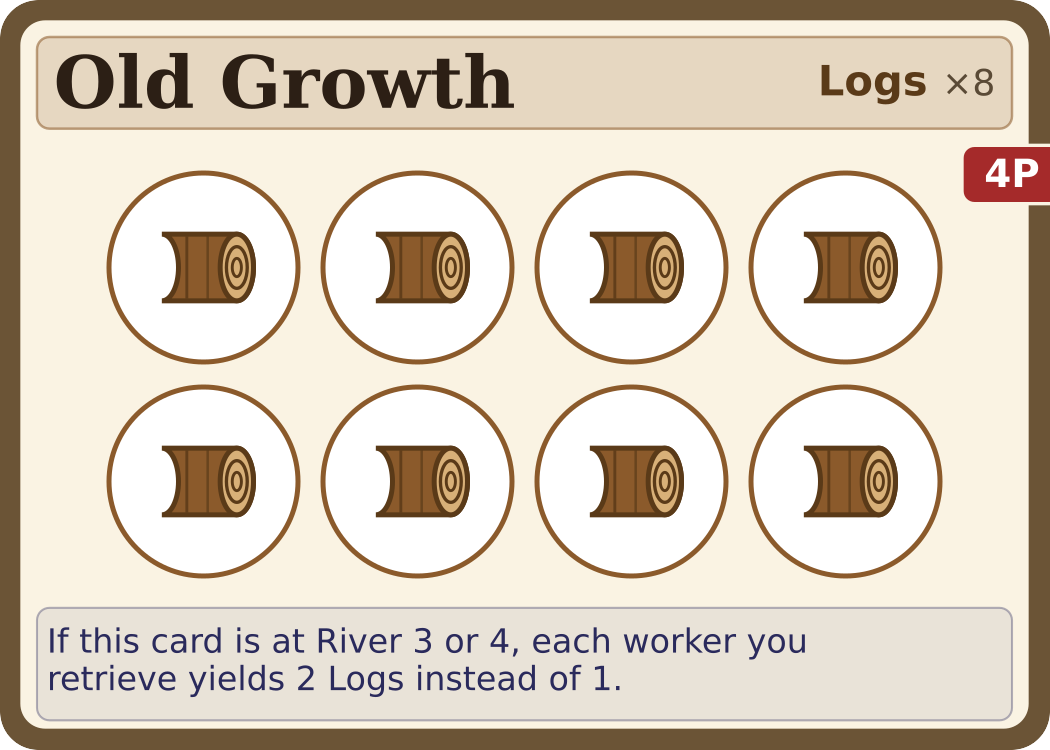
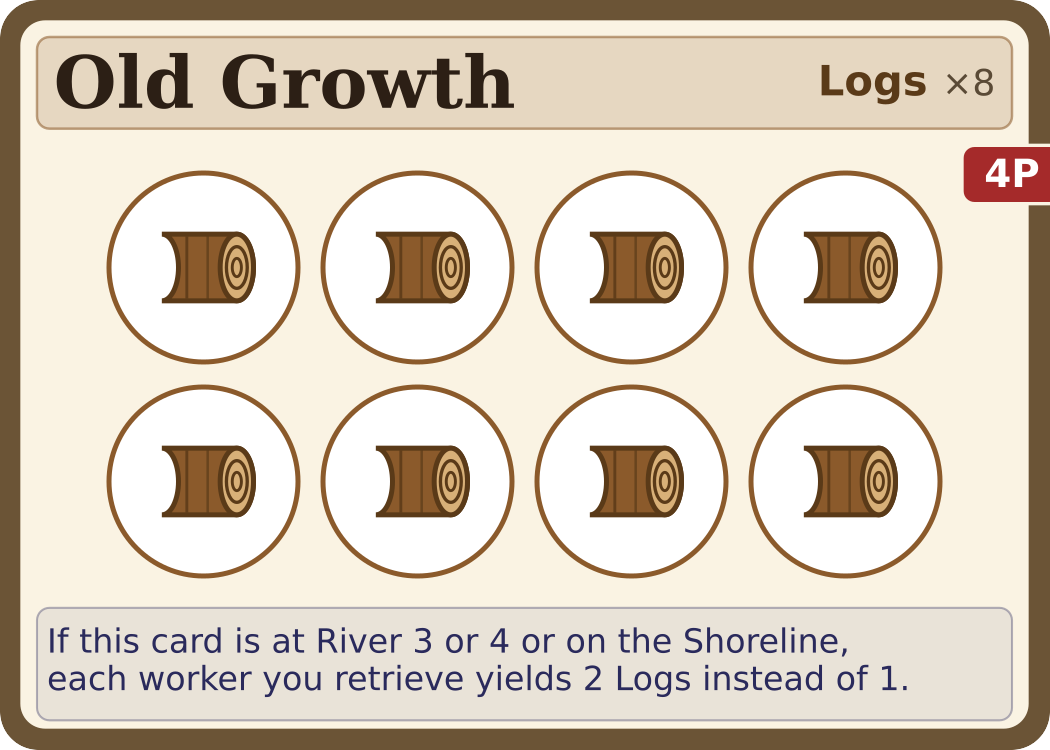
Old Growth: the ×2 now persists on the Shoreline
Fixes the trap where covering Old Growth's last icon retired it and
switched its own multiplier off — winning an icon could leave your Logs
total unchanged (seen live on BGA table 885194439). New text: "If this
card is at River 3 or 4 or on the Shoreline, each worker you retrieve
yields 2 Logs instead of 1."

No impact on end-game scoring: the bonus stays scoped to retrieval
during play; pair scoring keeps rawYield, so leftover workers at game
end count singly.

Sim (new `oldgrowth` sweep, 15k×4P; RB_OLDGROWTH_SHORE=0 restores the
old rule): the trap fired in 29.6% of 4P games and left the card's
investors at 23.0% win vs 25.0 fair; shoreline persistence restores
them to 26.0% with the rest of the field unmoved. 8-icon cost unchanged.

Applied to sim.js, web, BGA (both Game.php yield sites + Material.php;
getLeftoverWorkers deliberately untouched), card art + material sprite
sheet, release notes v0.4, design journal, and a new strategy-guide
paragraph.

Changed region(s): [[0.0305, 0.828, 0.8533, 0.92]]

diff --git a/sim.js b/sim.js
@@ -925,11 +925,21 @@ function uncoveredIcons(card) {
   return card.totalIcons - workers - card.blanks;
 }
 function workersOnCard(card, playerIdx) { return card.workers[playerIdx] || 0; }
-// Material yield multiplier per worker on a card. Old Growth yields 2x while
-// at River 3 or River 4 (slots 2 and 3); shoreline / R1 / R2 → 1x. All other
-// cards always yield 1x.
+// Material yield multiplier per worker on a card. Old Growth yields 2x at
+// River 3/4 and on the Shoreline; R1 / R2 / pre-river → 1x. All other cards
+// always yield 1x.
+// LIVE RULE as of [2026-09-19]: the ×2 also applies on the Shoreline,
+// removing the trap where covering Old Growth's last icon retires it and
+// switches its own multiplier off (seen live in BGA table 885194439; the
+// `oldgrowth` sweep showed the trap fired in ~30% of 4P games and left the
+// card's investors 2 pts under fair share). RB_OLDGROWTH_SHORE=0 restores
+// the old rule for measurement. NO impact on end-game scoring either way —
+// pair scoring passes rawYield (workers never retrieved don't double).
+let OLDGROWTH_SHORE = process.env.RB_OLDGROWTH_SHORE !== '0';
 function cardYieldMultiplier(card) {
-  if (card.effect === 'old-growth' && typeof card.slot === 'number' && card.slot >= 2) return 2;
+  if (card.effect !== 'old-growth') return 1;
+  if (typeof card.slot === 'number' && card.slot >= 2) return 2;
+  if (card.slot === 'shore' && OLDGROWTH_SHORE) return 2;
   return 1;
 }
 // wbm[m] = vanilla-card material units this player can spend on material m.
@@ -1352,6 +1362,7 @@ function newGame(numPlayers, workersPerPlayer = null) {
       peakBlanks: 0,              // max total blanks across all river/preriv cards at any point
       portageSwaps: [],           // per Portage swap: {victimIdx, cost, victimPos} (victimPos = victim timePos before any compensation)
       tributeRecalls: [],         // per Tribute Stone / Snare Set recall: {victimIdx, cardCost, comp, victimPos}
+      ogTrap: [],                 // per player caught by Old Growth retiring from R3/R4 with their workers aboard: {playerIdx, workers, slot}
     },
   };
 }
@@ -1496,6 +1507,15 @@ function moveCardToShoreline(state, card) {
     // Card exited the river — record the slot it was on (0..3).
     state.metrics.riverExitSlots.push(card.slot);
     state.riverCards = state.riverCards.filter(c => c !== card);
+  }
+  // Old Growth trap tracking: players holding workers when the card leaves a
+  // ×2 slot (River 3/4) lose the multiplier under the live rule.
+  if (card.effect === 'old-growth' && typeof card.slot === 'number' && card.slot >= 2) {
+    for (const k in card.workers) {
+      if (card.workers[k] > 0) {
+        state.metrics.ogTrap.push({ playerIdx: parseInt(k), workers: card.workers[k], slot: card.slot });
+      }
+    }
   }
   card.slot = 'shore';
   state.shorelineCards.push(card);
@@ -5005,6 +5025,88 @@ function sweepTribute(numGamesArg, numPArg, workersArg) {
   console.log(`\nElapsed: ${((Date.now() - t0) / 1000).toFixed(1)}s.\n`);
 }
 
+// Old Growth shoreline sweep: live rule (×2 dies when the card leaves River
+// 3/4, even by retiring to the Shoreline) vs RB_OLDGROWTH_SHORE (×2 persists
+// on the Shoreline). Measures the trap population — players holding workers
+// when Old Growth retires from a ×2 slot — under both rules, plus how often
+// the trap even occurs. Run with `cpulimit -l 50 -f -m --`.
+// Usage: node sim.js oldgrowth [numGames] [numP] [workers]
+function sweepOldGrowth(numGamesArg, numPArg, workersArg) {
+  const numP = parseInt(numPArg) || 3;
+  const workers = parseInt(workersArg) || defaultWorkersPerPlayer(numP);
+  const numGames = parseInt(numGamesArg) || 4000;
+  configureMaterials(6);
+  const fishLine = simFishLine(numP);
+
+  function collect(label, shore) {
+    OLDGROWTH_SHORE = shore;
+    let trapGames = 0, trapPlayers = 0, trapWorkers = 0, trapWins = 0, trapVP = 0;
+    let others = 0, otherVP = 0, otherWins = 0;
+    let gamesWithOG = 0, ogSeen = 0;
+    for (let g = 0; g < numGames; g++) {
+      const state = newGame(numP, workers);
+      egPlayOut(state, 'fish', 0, fishLine, 'd');
+      const trap = state.metrics.ogTrap;
+      const trapIdx = new Set(trap.map(t => t.playerIdx));
+      if (trap.length > 0) trapGames++;
+      const sawOG = state.riverCards.concat(state.shorelineCards, state.prerivCards.filter(Boolean))
+        .some(c => c.effect === 'old-growth');
+      if (sawOG) gamesWithOG++;
+      const scored = state.players.map(p => ({ p, vp: totalVP(p, state) }));
+      scored.sort((a, b) => b.vp - a.vp || a.p.timePos - b.p.timePos);
+      const winner = scored[0].p;
+      for (const t of trap) trapWorkers += t.workers;
+      for (const { p, vp } of scored) {
+        if (trapIdx.has(p.idx)) {
+          trapPlayers++; trapVP += vp;
+          if (p === winner) trapWins++;
+        } else {
+          others++; otherVP += vp;
+          if (p === winner) otherWins++;
+        }
+      }
+      ogSeen += trap.length;
+    }
+    return {
+      label,
+      trapGames, trapRate: trapGames / numGames,
+      trapPlayers, avgTrapWorkers: trapPlayers ? trapWorkers / trapPlayers : NaN,
+      trapWin: trapPlayers ? trapWins / trapPlayers : NaN,
+      trapVP: trapPlayers ? trapVP / trapPlayers : NaN,
+      otherWin: others ? otherWins / others : NaN,
+      otherVP: others ? otherVP / others : NaN,
+    };
+  }
+
+  const t0 = Date.now();
+  process.stderr.write('\roldgrowth: live rule ...           ');
+  const off = collect('x2 dies on Shoreline (pre-9/19)', false);
+  process.stderr.write('\roldgrowth: shoreline x2 ...        ');
+  const on = collect('x2 persists on Shoreline (live)', true);
+  OLDGROWTH_SHORE = process.env.RB_OLDGROWTH_SHORE !== '0';
+  process.stderr.write('\r' + ' '.repeat(40) + '\r');
+
+  const expWin = 100 / numP;
+  console.log(`\nRiver Bankers — Old Growth shoreline-×2 sweep  (${numP}P × ${workers} workers × ${numGames} games/condition)`);
+  console.log(`Fair-share win-rate = ${expWin.toFixed(1)}%.  "Trapped" = held workers on Old Growth when it retired from River 3/4.\n`);
+  console.log(pad('Condition', 30) + padL('trap/game', 11) + padL('avgWkrs', 9) + padL('trapWin%', 10) + padL('Δfair', 8) + padL('trapVP', 8) + padL('restWin%', 10) + padL('restVP', 8));
+  console.log('-'.repeat(30 + 11 + 9 + 10 + 8 + 10 + 8 + 8));
+  for (const r of [off, on]) {
+    const f = (x, d = 1) => isNaN(x) ? '-' : x.toFixed(d);
+    console.log(
+      pad(r.label, 30) + padL((100 * r.trapRate).toFixed(1) + '%', 11) +
+      padL(f(r.avgTrapWorkers, 2), 9) + padL(f(100 * r.trapWin), 10) +
+      padL(isNaN(r.trapWin) ? '-' : ((100 * r.trapWin) - expWin >= 0 ? '+' : '') + ((100 * r.trapWin) - expWin).toFixed(1), 8) +
+      padL(f(r.trapVP, 2), 8) + padL(f(100 * r.otherWin), 10) + padL(f(r.otherVP, 2), 8));
+  }
+  console.log(`\nDelta (persists − dies): trapped win ${(100 * (on.trapWin - off.trapWin) >= 0 ? '+' : '')}${(100 * (on.trapWin - off.trapWin)).toFixed(1)} pts, trapped VP ${((on.trapVP - off.trapVP) >= 0 ? '+' : '')}${(on.trapVP - off.trapVP).toFixed(2)}`);
+  console.log(`\nLegend: trap/game = share of games where Old Growth retired from R3/R4 with`);
+  console.log(`  someone's workers aboard; avgWkrs = their avg stranded workers. restWin%/`);
+  console.log(`  restVP = everyone else in those same runs. The sim AI does not anticipate`);
+  console.log(`  the trap under either rule, so this measures the rule, not play skill.`);
+  console.log(`\nElapsed: ${((Date.now() - t0) / 1000).toFixed(1)}s.\n`);
+}
+
 // Deck-wide build-rate sweep: for every card in the structure deck, how often
 // is it actually built (builders / player-seats), and how do its builders do
 // (win rate, avg VP)? Answers "is card X built in band with the rest of the
@@ -7938,6 +8040,7 @@ if (require.main === module) {
   else if (mode === 'portage') sweepPortage(process.argv[3], process.argv[4], process.argv[5]);
   else if (mode === 'build-rate') sweepBuildRate(process.argv[3], process.argv[4], process.argv[5]);
   else if (mode === 'tribute') sweepTribute(process.argv[3], process.argv[4], process.argv[5]);
+  else if (mode === 'oldgrowth') sweepOldGrowth(process.argv[3], process.argv[4], process.argv[5]);
   else if (mode === 'game-length') sweepGameLength(process.argv[3], process.argv[4], process.argv[5]);
   else if (mode === 'species-winrate') sweepSpeciesWinRate(process.argv[3], process.argv[4], process.argv[5]);
   else if (mode === 'fairness') sweepFairness(process.argv[3], process.argv[4], process.argv[5]);

diff --git a/rulebook/design-journal.html b/rulebook/design-journal.html
@@ -688,6 +688,20 @@ Portage keeps its printed 6&#9733;; a 7&#9733; bump was simmed, found safe, and 
 card builds at exactly the deck's median rate and fires second-most-often of the action cohort, so its
 mild net-VP deficit isn't worth reopening the print files beyond the text change.</p>
 
+<p>The same week closed a second feels-bad, this one self-inflicted rather than opponent-inflicted:
+<strong>Old Growth's</strong> &times;2 died the moment the card left River&nbsp;3/4 &mdash; including
+when it retired to the Shoreline because its <em>own last icon</em> got covered. Winning an icon on
+Old Growth could leave your Logs total unchanged, a trap first seen live on a BGA Alpha table. The sim
+said it wasn't rare: the trap fired in <strong>~30% of 4-player games</strong> and left the card's
+investors two win-rate points under fair share &mdash; the card was quietly punishing exactly the
+players it exists to reward. The fix is three words on the card: the &times;2 now also applies
+<strong>on the Shoreline</strong>. At 15k games the trapped population returns to fair share (+1.0)
+and nobody else moves; the feared &ldquo;now it's too strong&rdquo; overshoot never materialized, so
+the 8-icon cost stays put. The bonus remains scoped to workers you <em>retrieve</em> during play, so
+end-game scoring is untouched &mdash; leftover workers count singly, same as always. One thing to
+watch in Alpha stats: cheap River&nbsp;1/2 workers now inherit the &times;2 at retirement, a line the
+sim's AI doesn't deliberately play but humans will.</p>
+
 <div class="footer">
   River Bankers — a design journal · a week-by-week look back at the game's development ·
   entries oldest-first, one heading per calendar week.

diff --git a/rulebook/release-notes.html b/rulebook/release-notes.html
@@ -84,6 +84,16 @@ victims are no longer left empty-handed. Confirmed balance-neutral in 15,000-gam
       flat <strong>3&#128031;</strong>. New: they slide back <strong>the recalled card&rsquo;s current
       per-item cost</strong> (2&#128031; at River&nbsp;1 up to 5&#128031; at River&nbsp;4) &mdash;
       deeper steals pay their victims more, matching the refund to what was actually taken.</li>
+  <li><strong>Old Growth&rsquo;s &times;2 survives the Shoreline.</strong> Old: <em>&ldquo;If this
+      card is at River 3 or 4, each worker you retrieve yields 2 Logs instead of 1.&rdquo;</em> New:
+      <em>&ldquo;If this card is at River 3 or 4 <strong>or on the Shoreline</strong>&hellip;&rdquo;</em>
+      Previously, covering Old Growth&rsquo;s last icon retired it to the Shoreline and switched its own
+      multiplier off &mdash; so winning an icon could leave your Logs total unchanged or even lower it.
+      Simulation showed this trap fired in roughly <strong>30% of 4-player games</strong> and left the
+      card&rsquo;s investors two win-rate points <em>under</em> fair share; with the &times;2 persisting
+      they return to fair share, with no measurable effect on anyone else. <strong>This has no impact on
+      end-game scoring</strong>: the bonus applies only to workers you <em>retrieve</em> during play to
+      pay build costs &mdash; workers still on the card at game end count singly, exactly as before.</li>
 </ul>
 
 <h2>Version v0.3 (July 2026)</h2>

diff --git a/web/index.html b/web/index.html
@@ -2219,9 +2219,13 @@ function totalWorkersOf(card, playerIdx) {
 }
 
 // Material yield multiplier per worker on a card. Old Growth yields 2x while
-// at River 3 or River 4 (slots 2 and 3); shoreline / R1 / R2 → 1x.
+// at River 3/4 or on the Shoreline [2026-09-19; was R3/R4 only — retiring the
+// card no longer kills its own multiplier]. End-game pair scoring is
+// unaffected: it passes rawYield, so workers never retrieved don't double.
+// R1 / R2 / pre-river → 1x. All other cards always yield 1x.
 function cardYieldMultiplier(card) {
-  if (card.effect === 'old-growth' && typeof card.slot === 'number' && card.slot >= 2) return 2;
+  if (card.effect === 'old-growth' &&
+      ((typeof card.slot === 'number' && card.slot >= 2) || card.slot === 'shore')) return 2;
   return 1;
 }
 
@@ -3264,7 +3268,7 @@ function effectDescription(card) {
     case 'slipping-sandbar':
       return `Enters the river at River 4. After an auction on this card, slides one slot upstream instead of downstream. At River 1, retires to shoreline instead.`;
     case 'old-growth':
-      return `If this card is at River 3 or 4, each worker you retrieve yields 2 ${card.material} instead of 1.`;
+      return `If this card is at River 3 or 4 or on the Shoreline, each worker you retrieve yields 2 ${card.material} instead of 1.`;
     default:
       return '';
   }

diff --git a/rulebook/strategy-guide.html b/rulebook/strategy-guide.html
@@ -403,6 +403,15 @@
   materials most likely to <strong>jam</strong>. Don't get into a four-worker shoving match over logs
   when a quieter material would finish the same structure cheaper.
 </p>
+<p>
+  <strong>Old Growth (4P) is the logs play with a clock on it.</strong> Its &times;2 applies at
+  River&nbsp;3/4 <em>and stays on when the card retires to the Shoreline</em> — so workers you park
+  there keep their double yield for later builds, and covering the card's last icon no longer switches
+  its own bonus off. Two things to know: the &times;2 only counts when you <em>retrieve</em> workers to
+  pay a build cost — it has <strong>no impact on end-game scoring</strong>, where leftover workers
+  always count singly — and workers placed cheaply at River&nbsp;1/2 also inherit the &times;2 once the
+  card reaches the Shoreline, which makes early icons on Old Growth quietly better than they look.
+</p>
 
 <h3>Clay — the specialist that pays</h3>
 <p>

diff --git a/bga/modules/php/Game.php b/bga/modules/php/Game.php
@@ -872,7 +872,7 @@ class Game extends \Bga\GameFramework\Table
 
     /**
      * A player's worker holdings shaped for Rules\Build::allocate(). Old Growth
-     * yields 2 Logs per worker while it sits at River 3 or 4 (yield = 2).
+     * yields 2 Logs per worker while it sits at River 3 or 4 or on the Shoreline (yield = 2).
      *
      * @return list<array{cardId:int, material:string, wildAlt:?string, workers:int, yield:int}>
      */
@@ -893,10 +893,13 @@ class Game extends \Bga\GameFramework\Table
             if ($def === null) {
                 continue;
             }
-            // Old Growth at River 3/4 (slot >= 3): each worker yields 2 Logs.
+            // Old Growth at River 3/4 (slot >= 3) or on the Shoreline
+            // [2026-09-19]: each worker yields 2 Logs. (End-game pair scoring
+            // is unaffected — getLeftoverWorkers stays raw, see below.)
             $yield = ($def['name'] === 'Old Growth'
-                && $r['card_location'] === 'river'
-                && (int) $r['card_location_arg'] >= 3) ? 2 : 1;
+                && ($r['card_location'] === 'shoreline'
+                    || ($r['card_location'] === 'river'
+                        && (int) $r['card_location_arg'] >= 3))) ? 2 : 1;
             $out[] = [
                 'cardId' => (int) $r['card_id'],
                 'material' => (string) $def['material'],
@@ -1369,9 +1372,11 @@ class Game extends \Bga\GameFramework\Table
             if ($def === null) {
                 continue;
             }
+            // Old Growth ×2 at River 3/4 or Shoreline [2026-09-19].
             $yield = ($def['name'] === 'Old Growth'
-                && $r['card_location'] === 'river'
-                && (int) $r['card_location_arg'] >= 3) ? 2 : 1;
+                && ($r['card_location'] === 'shoreline'
+                    || ($r['card_location'] === 'river'
+                        && (int) $r['card_location_arg'] >= 3))) ? 2 : 1;
             $out[(int) $r['player_id']][] = [
                 'cardId' => (int) $r['card_id'],
                 'material' => (string) $def['material'],

diff --git a/bga/modules/php/Material.php b/bga/modules/php/Material.php
@@ -21,7 +21,7 @@ class Material
         0 => ['name' => 'Fallen Limb', 'material' => 'logs', 'icons' => 4],
         1 => ['name' => 'Driftwood Tangle', 'material' => 'logs', 'icons' => 5, 'wildAlt' => 'reeds', 'effect' => 'Wild: each claimed icon yields Logs OR Reeds (chosen at build time).'],
         2 => ['name' => 'Logjam', 'material' => 'logs', 'icons' => 7],
-        3 => ['name' => 'Old Growth', 'material' => 'logs', 'icons' => 8, 'effect' => 'If this card is at River 3 or 4, each worker you retrieve yields 2 Logs instead of 1.'],
+        3 => ['name' => 'Old Growth', 'material' => 'logs', 'icons' => 8, 'effect' => 'If this card is at River 3 or 4 or on the Shoreline, each worker you retrieve yields 2 Logs instead of 1.'],
         4 => ['name' => 'Cairn', 'material' => 'stones', 'icons' => 4],
         5 => ['name' => 'Rocky Shoal', 'material' => 'stones', 'icons' => 5],
         6 => ['name' => 'Boulder Field', 'material' => 'stones', 'icons' => 7],
